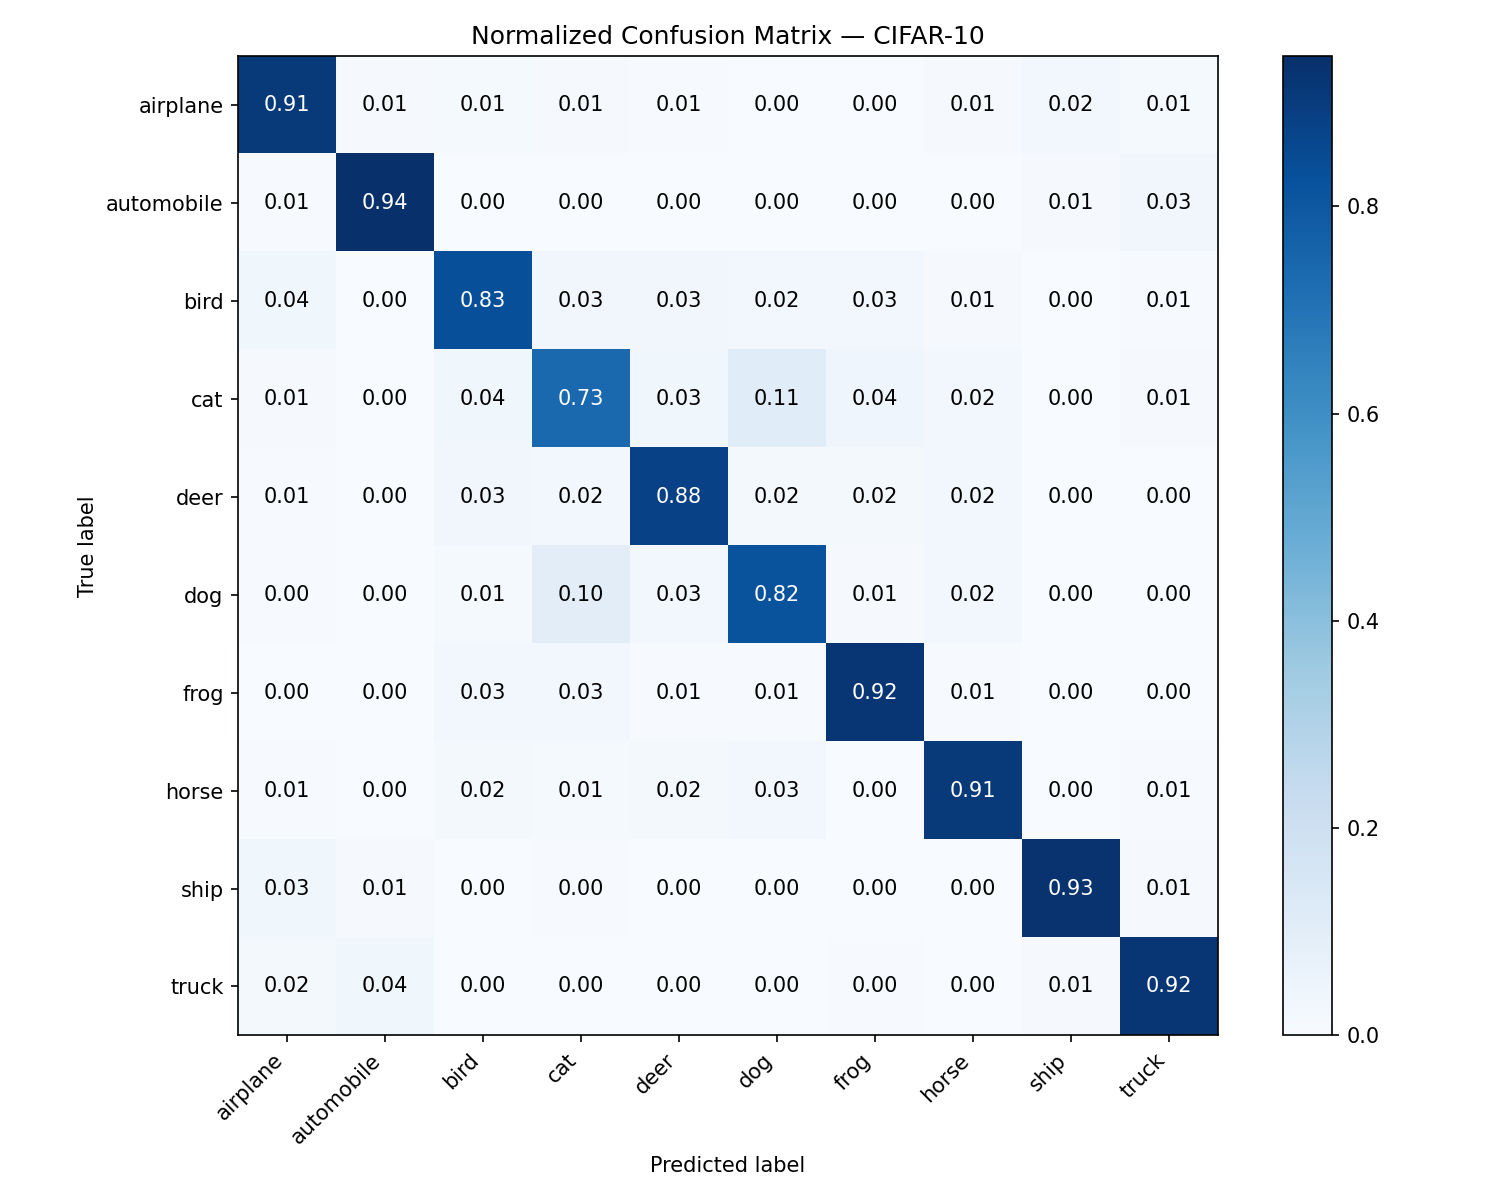
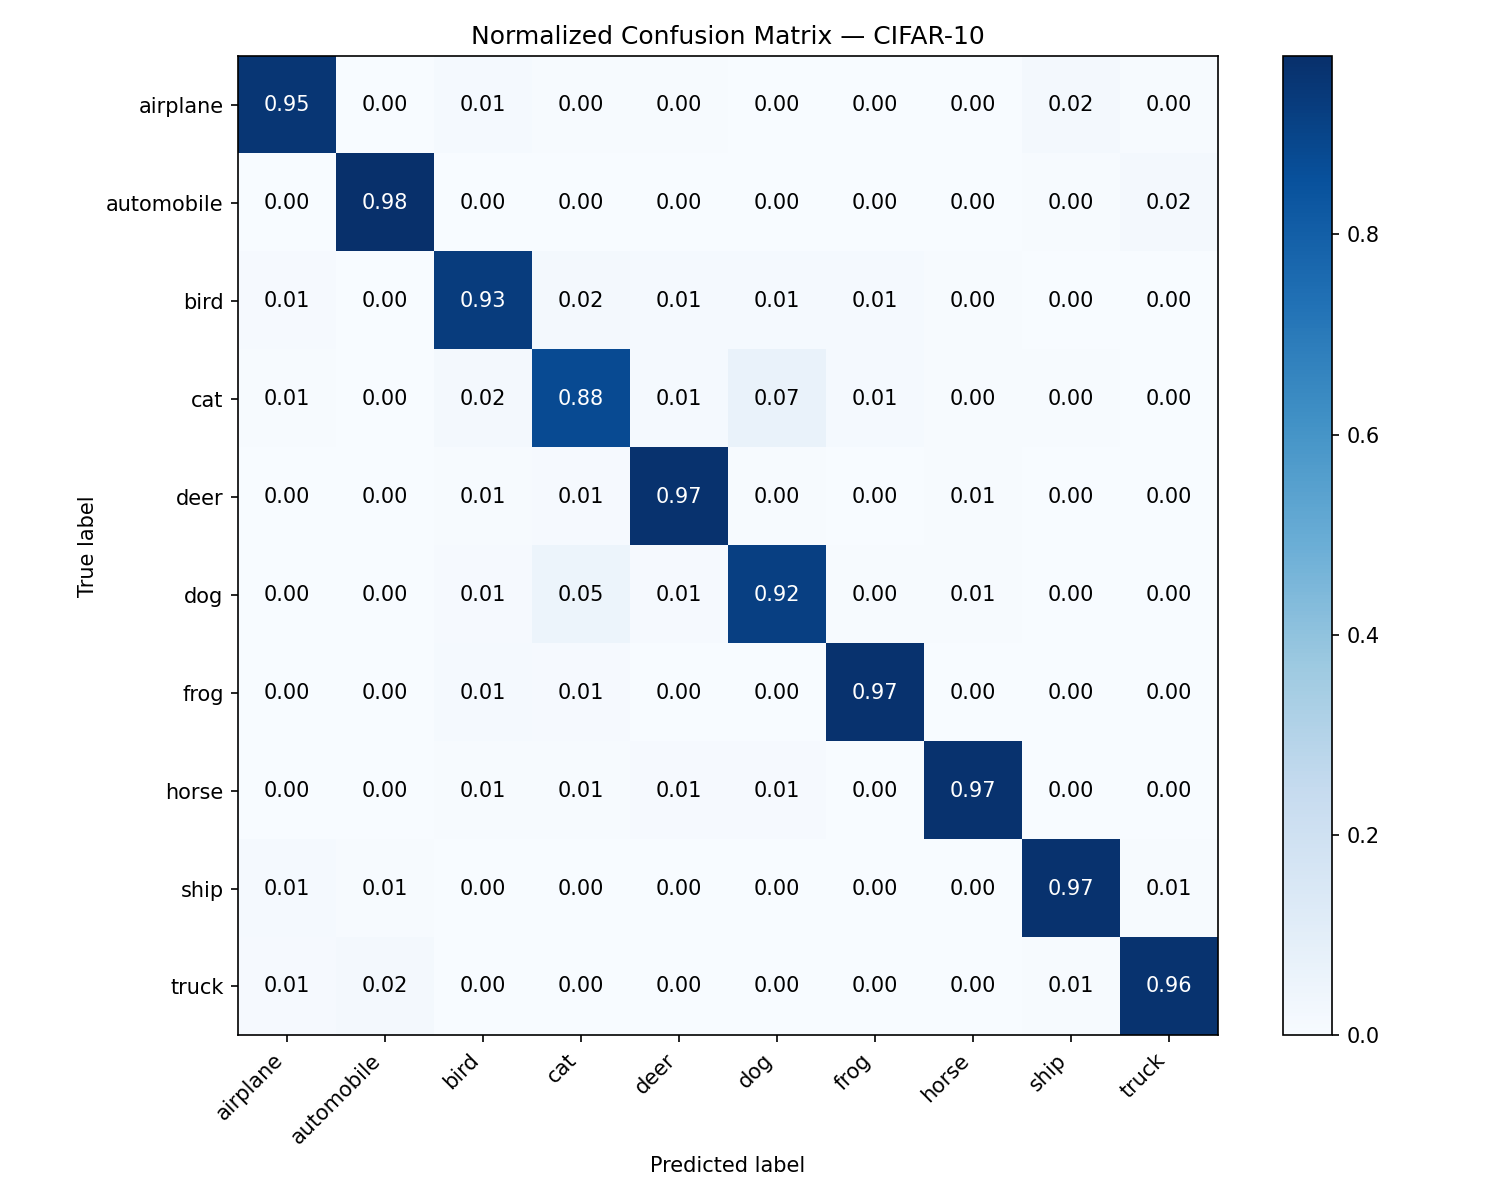
feat: ResNet18 architecture reaches 95% accuracy on CIFAR-10

diff --git a/README.md b/README.md
@@ -11,9 +11,9 @@ Trains a custom CNN on the CIFAR-10 dataset from scratch, achieving ~83% accurac
 
 | Metric | Value |
 |--------|-------|
-| Validation Accuracy | 88% |
-| Best class | Ship (F1: 0.94) |
-| Hardest class | Cat (F1: 0.75) |
+| Validation Accuracy | 95% |
+| Best class | Automobile (F1: 0.98) |
+| Hardest class | Cat (F1: 0.89) |
 
 ---
 
@@ -84,11 +84,16 @@ Then open [http://localhost:6006](http://localhost:6006).
 
 ## Model Architecture
 
-A three-block CNN followed by a fully connected classifier.
+ResNet18 adapted for CIFAR-10 with two key modifications from the original ImageNet version:
+- Initial conv is 3×3 stride 1 (instead of 7×7 stride 2)
+- No initial maxpool layer
 
-Each convolutional block follows the pattern `Conv2d → BatchNorm2d → ReLU → MaxPool2d`,
-progressively increasing the number of channels (32 → 64 → 128) while halving the spatial resolution.
-The classifier head flattens the feature maps and projects them to 10 classes via two linear layers with dropout.
+The network consists of an initial convolution followed by 4 stages of 2 BasicBlocks each
+(64 → 128 → 256 → 512 channels), ending with global average pooling and a linear classifier.
+The skip connections allow gradients to flow through the entire 18-layer network without
+vanishing, which is the key innovation that enables training such deep architectures.
+
+The codebase supports both `SimpleCNN` (baseline) and `ResNet18` — switchable via `config.yaml`.
 
 ---
 
@@ -100,13 +105,13 @@ Key parameters:
 
 | Parameter | Value |
 |-----------|-------|
+| Architecture | ResNet18 (~11M params) |
 | Epochs | 100 |
 | Batch size | 128 |
 | Learning rate | 0.001 |
 | Optimizer | AdamW |
-| Scheduler | LinearLR warmup + CosineAnnealingLR |
+| Scheduler | LinearLR warmup (5 epochs) + CosineAnnealingLR |
 | Weight decay | 0.0005 |
-| Dropout | 0.5 |
 
 ---
 
